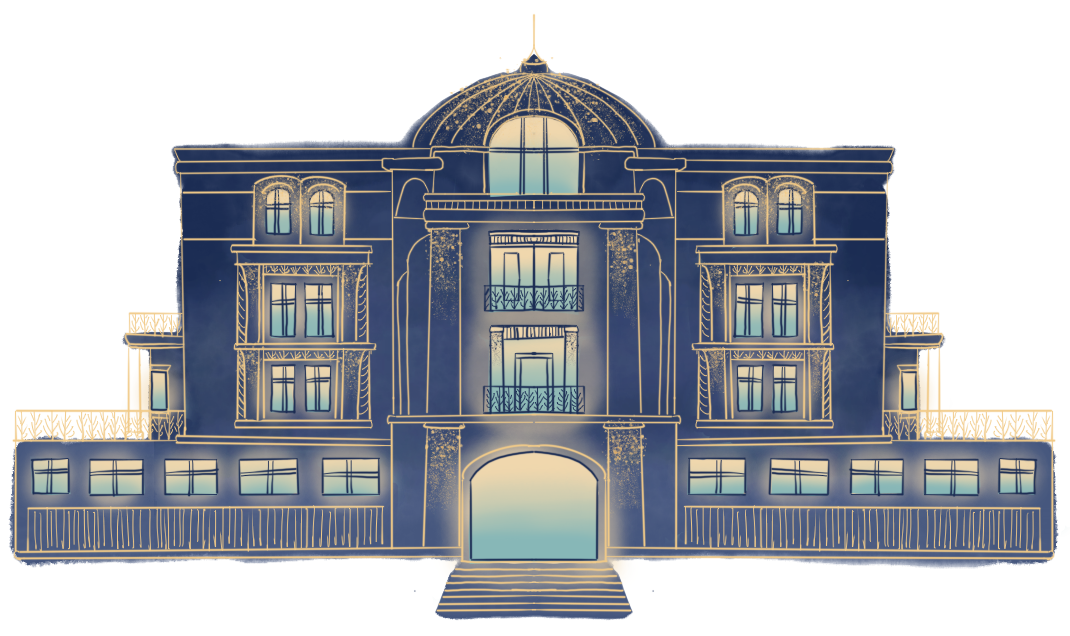
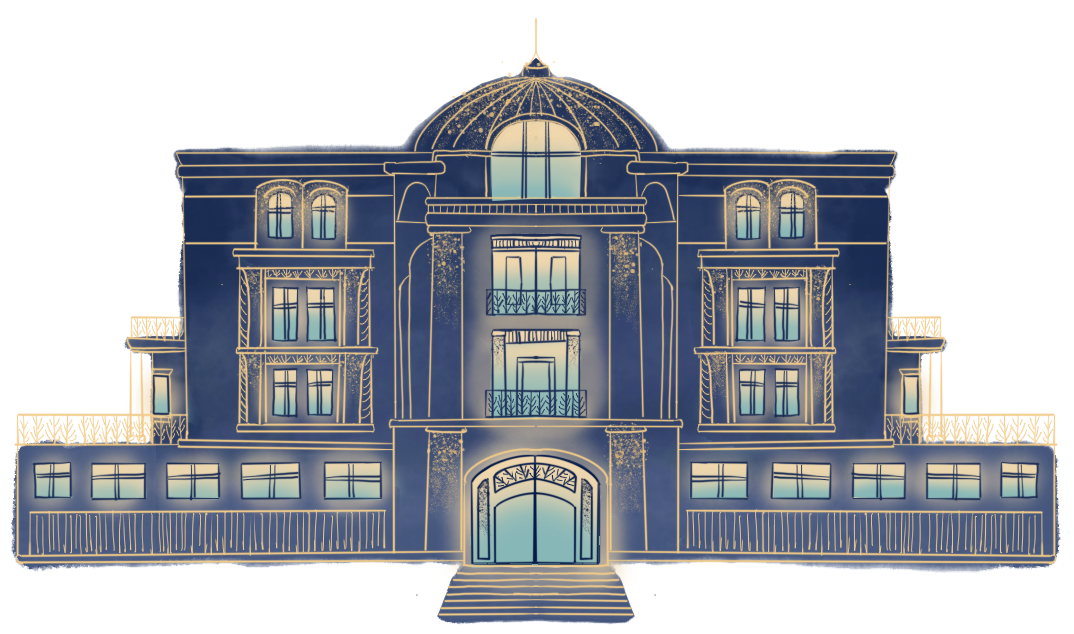
added new lobby and animations

Changed region(s): [[0.0, 0.0899, 0.9869, 0.989]]

diff --git a/style.css b/style.css
@@ -1,13 +1,14 @@
 /* General styles */
-body {
+html, body {
     margin: 0;
     padding: 0;
+    width: 100%;
+    height: 100%; /* Ensure it spans the entire viewport height */
+    overflow: hidden; /* Prevent scrolling */
     background-image: url('img/Background.png'); /* Set the background image */
-    background-size: cover; /* Ensure the image covers the entire page */
-    background-position: center; /* Center the background image */
+    background-size: cover; /* Make the image cover the entire viewport */
+    background-position: center; /* Center the image */
     background-repeat: no-repeat; /* Prevent the image from repeating */
-    position: relative;
-    height: 100vh;
 }
 
 /* Mansion */
@@ -15,29 +16,42 @@ body {
     position: absolute;
     bottom: 0; /* Place it at the bottom */
     left: 50%; /* Horizontally center it */
-    transform: translateX(-70%) translateY(3%); /* Correct the centering by moving it left by 50% of its width */
-    max-width: 140%; /* Set the maximum width (adjust as necessary) */
-    height: auto; /* Maintain aspect ratio */
-    z-index: 4; /* Ensure the mansion is above the fireworks */
+    transform: translateX(-70%) translateY(3%);
+    max-width: 100%; /* Ensure it doesn't exceed the viewport width */
+    height: auto;
+    z-index: 4;
 }
 
 .mansion img {
-    width: 140%; /* Make sure the image fills the mansion container */
+    content: url("img/Mansion.png"); /* Default image */
+    transition: 0.3s ease; /* Optional: smooth transition */
+    width: 141%; /* Make sure the image fills the mansion container */
     height: auto; /* Keep aspect ratio intact */
+}
+
+.mansion-img:hover {
+    content: url("img/Mansion_Hover.png"); /* Change image on hover */
 }
 
 .moon {
     position: absolute;
     top: 0;
     left: 50%;
-    transform: translateX(-53%) translateY(-3%); /* Correct the centering by moving it left by 50% of its width */
-    max-width: 100%; /* Set the maximum width (adjust as necessary) */
-    height: auto; /* Maintain aspect ratio */
-    z-index: 3; /* Ensure the mansion is above the fireworks */
+    transform: translateX(-53%) translateY(-3%);
+    max-width: 100%; /* Ensure it doesn't exceed the viewport width */
+    height: auto;
+    z-index: 3;
 }
+
 .moon img {
+    content: url("img/Moon.png"); /* Default image */
+    transition: 0.3s ease; /* Optional: smooth transition */
     width: 100%; /* Make sure the image fills the mansion container */
     height: auto; /* Keep aspect ratio intact */
+}
+
+.moon-img:hover {
+    content: url("img/Moon_Hover.png"); /* Change image on hover */
 }
 
 .border {
@@ -48,31 +62,7 @@ body {
     z-index: 2; /* Ensure the mansion is above the fireworks */
 }
 .border img {
-    height: 90%; /* Make sure the image fills the mansion container */
-}
-
-.leftdoor {
-    position: absolute;
-    top: 64%;
-    left: 41.1%;
-    max-width: 95%; /* Set the maximum width (adjust as necessary) */
-    height: auto; /* Maintain aspect ratio */
-    z-index: 5; /* Ensure the mansion is above the fireworks */
-}
-.leftdoor img {
-    width: 95%; /* Make sure the image fills the mansion container */
-}
-
-.rightdoor {
-    position: absolute;
-    top: 64%;
-    left: 49.9%;
-    max-width: 95%; /* Set the maximum width (adjust as necessary) */
-    height: auto; /* Maintain aspect ratio */
-    z-index: 5; /* Ensure the mansion is above the fireworks */
-}
-.rightdoor img {
-    width: 95%; /* Make sure the image fills the mansion container */
+    height: 100%; /* Make sure the image fills the mansion container */
 }
 
 /* Fireworks container */
@@ -81,8 +71,8 @@ body {
     top: 0;
     left: 0;
     width: 100%;
-    height: 100%; /* Full height for particle launch */
-    z-index: 2; /* Place fireworks behind the mansion */
+    height: 100%; /* Match the viewport height */
+    z-index: 2;
     pointer-events: none; /* Prevent interaction */
 }
 

diff --git a/index.html b/index.html
@@ -9,24 +9,18 @@
 <body>
     <div class="fireworks-container"></div>
     <div class="mansion">
-        <img src = img/Mansion.png>
+        <a href="pages/lobby.html">
+            <img src="img/Mansion.png" alt="Mansion Image" class = "mansion-img">
+        </a>
     </div>
     <div class="moon">
         <a href="https://www.tinyticket.net/event-group/EGSxiymoXlYk">
-            <img src="img/Moon.png" alt="Moon Image">
+            <img src="img/Moon.png" alt="Moon Image" class="moon-img">
         </a>
     </div>
-    <a href = "pages/lobby.html">
-        <div class="border">
-            <img src = img/Border.png>
-        </div>
-        <div class="leftdoor">
-            <img src = img/LeftDoor.png>
-        </div>
-        <div class="rightdoor">
-            <img src = img/RightDoor.png>
-        </div>
-    </a>
+    <div class="border">
+        <img src = img/Border.png>
+    </div>
     <script src="script.js"></script>
 </body>
 </html>

diff --git a/pages/lobbystyle.css b/pages/lobbystyle.css
@@ -1,10 +1,11 @@
-body {
+html, body {
     margin: 0;
     padding: 0;
-    background-image: url('../img/Proto.jpg'); /* Set the background image */
-    background-size: cover; /* Ensure the image covers the entire page */
-    background-position: center; /* Center the background image */
+    width: 100%;
+    height: 100%; /* Ensure it spans the entire viewport height */
+    overflow: hidden; /* Prevent scrolling */
+    background-image: url("../img/Ballroom.png"); /* Set the background image */
+    background-size: cover; /* Make the image cover the entire viewport */
+    background-position: center; /* Center the image */
     background-repeat: no-repeat; /* Prevent the image from repeating */
-    position: relative;
-    height: 100vh;
 }

diff --git a/pages/lobby.html b/pages/lobby.html
@@ -7,5 +7,5 @@
     <link rel="stylesheet" href="lobbystyle.css">
 </head>
 <body>
-
 </body>
+</html>
